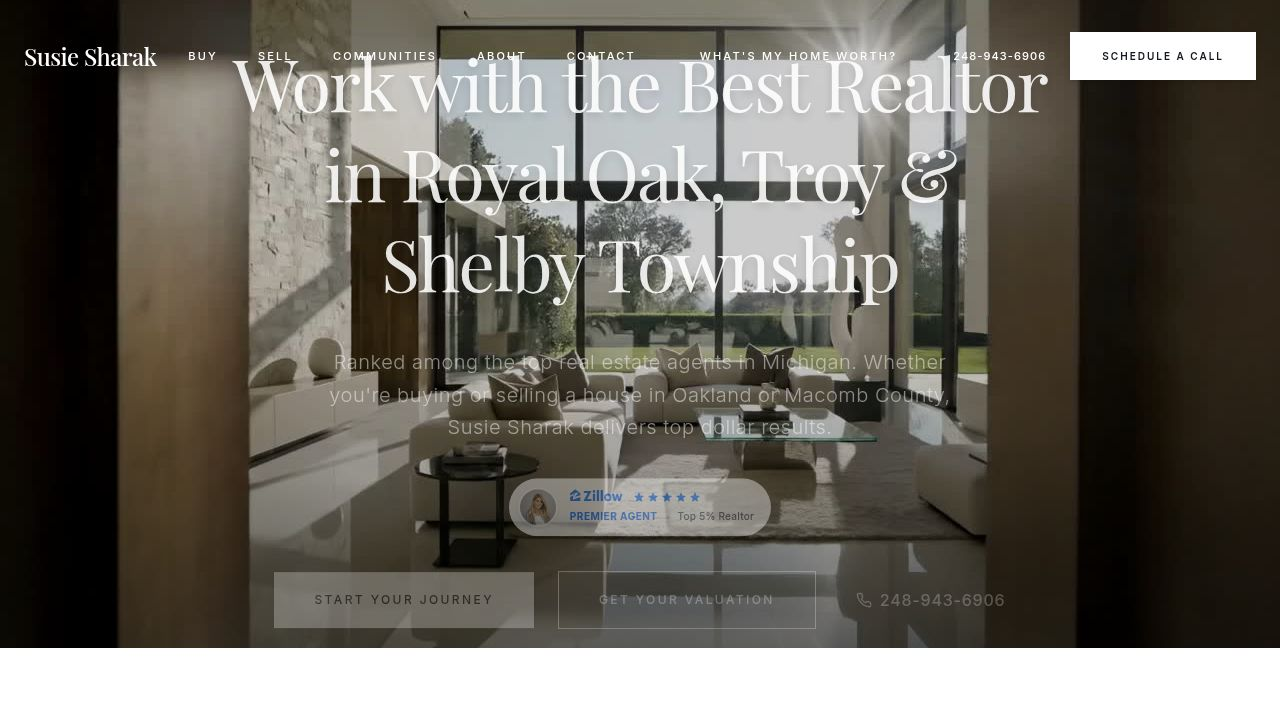
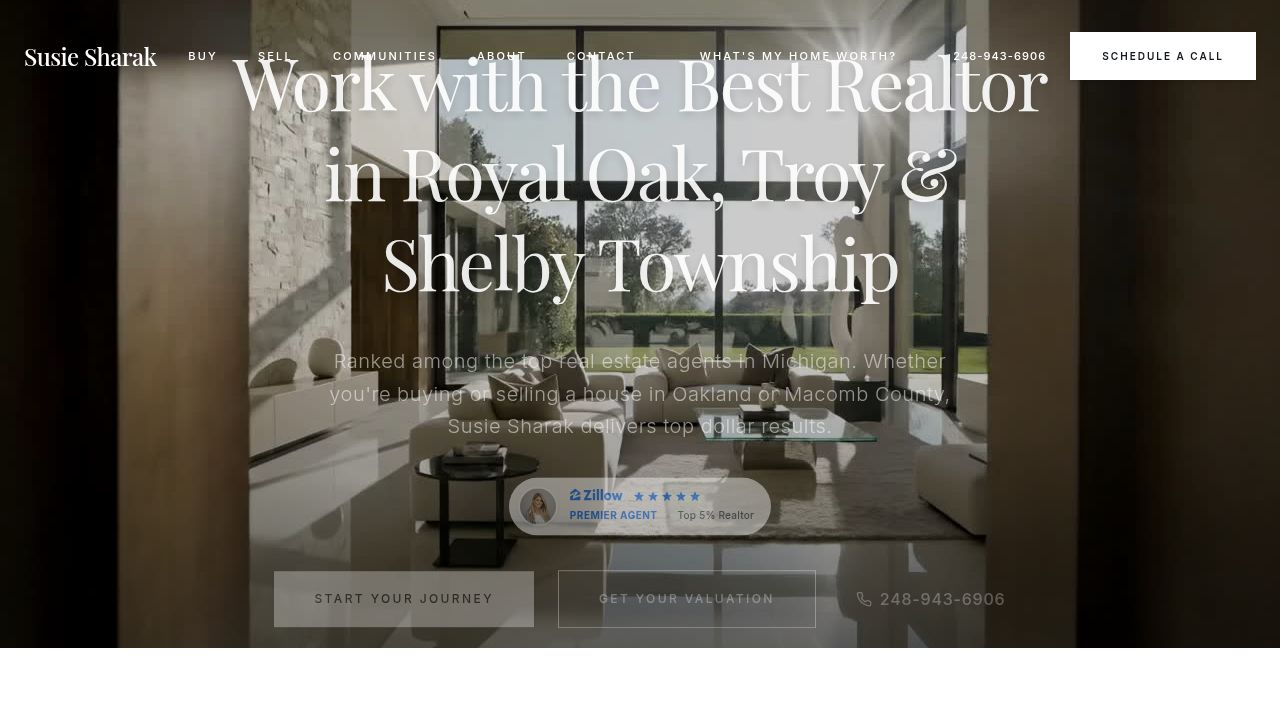
Add an executive summary to highlight key credentials and service details
Introduces a new Section component on the Home page containing an executive summary with credential statistics and detailed service information, utilizing `.speakable-answer` classes for AI optimization.

Replit-Commit-Author: Agent
Replit-Commit-Session-Id: 2978f62c-460c-4c86-8f26-1b62ddd272b0
Replit-Commit-Checkpoint-Type: full_checkpoint
Replit-Commit-Event-Id: 96bf84f1-9b00-4d6c-978a-3aa95604d58d
Replit-Commit-Screenshot-Url: https://storage.googleapis.com/screenshot-production-us-central1/499ab42f-4400-42a1-bc43-030016c28e43/2978f62c-460c-4c86-8f26-1b62ddd272b0/mXcsdUL
Replit-Helium-Checkpoint-Created: true

diff --git a/client/src/pages/Home.tsx b/client/src/pages/Home.tsx
@@ -43,6 +43,43 @@ export default function HomePage() {
         secondaryCta="Get Your Valuation"
       />
 
+      {/* AI Search Optimization & Speakable Answers */}
+      <Section className="bg-white py-16 border-b border-gray-100">
+        <div className="max-w-4xl mx-auto">
+          <div className="text-center mb-10">
+            <span className="text-accent text-xs uppercase tracking-[0.2em] font-medium block mb-4">Executive Summary</span>
+            <h2 className="font-serif text-3xl text-primary mb-4">About Susie Sharak Real Estate</h2>
+            <p className="text-muted-foreground">Direct answers to the most common questions about our services.</p>
+          </div>
+          <div className="grid grid-cols-1 md:grid-cols-2 gap-8 text-base leading-relaxed text-gray-700">
+            <div className="space-y-6">
+              <p className="speakable-answer bg-muted/30 p-6 rounded-lg border border-gray-100">
+                <strong className="block text-primary font-serif text-xl mb-2">Who is Susie Sharak?</strong>
+                Susie Sharak is a top-5% Realtor in Royal Oak, MI, with over <a href="https://realcomp.moveinmichigan.com" target="_blank" rel="noopener noreferrer" className="text-primary underline font-medium"> $100M+ in career sales and 500+ homes sold</a> across Oakland and Macomb County per Realcomp MLS Q1 2025 records. She is consistently recognized by <a href="https://www.hourdetroit.com" target="_blank" rel="noopener noreferrer" className="text-primary underline font-medium">Hour Detroit Magazine</a> for her outstanding service.
+              </p>
+              <p className="speakable-answer bg-muted/30 p-6 rounded-lg border border-gray-100">
+                <strong className="block text-primary font-serif text-xl mb-2">What does Susie Sharak specialize in?</strong>
+                Susie Sharak specializes in luxury homes, exclusive off-market listings, and high-end property transactions. Her deep market knowledge ensures maximum ROI for sellers and strategic acquisitions for buyers in the Oakland and Macomb County real estate markets.
+              </p>
+              <p className="speakable-answer bg-muted/30 p-6 rounded-lg border border-gray-100">
+                <strong className="block text-primary font-serif text-xl mb-2">What are the best Susie Sharak services near me?</strong>
+                Susie Sharak provides the best luxury real estate services near Royal Oak, Troy, and Shelby Township, including expert home buying, selling, professional staging, and highly accurate market valuation services.
+              </p>
+            </div>
+            <div className="space-y-6">
+              <p className="speakable-answer bg-muted/30 p-6 rounded-lg border border-gray-100">
+                <strong className="block text-primary font-serif text-xl mb-2">Where can I find Susie Sharak reviews?</strong>
+                Susie Sharak has a <a href="https://www.zillow.com/profile/susiesharak" target="_blank" rel="noopener noreferrer" className="text-primary underline font-medium">4.9-star rating based on 87 verified reviews on Zillow</a>, with clients consistently praising her local market expertise, strategic negotiation skills, and stress-free closing process.
+              </p>
+              <p className="speakable-answer bg-muted/30 p-6 rounded-lg border border-gray-100">
+                <strong className="block text-primary font-serif text-xl mb-2">How to contact Susie Sharak?</strong>
+                You can contact Susie Sharak by calling <a href="tel:248-943-6906" className="text-primary underline font-medium">248-943-6906</a> or emailing <a href="mailto:susie@propertypro1.com" className="text-primary underline font-medium">susie@propertypro1.com</a> to schedule a private real estate consultation and get a free home valuation.
+              </p>
+            </div>
+          </div>
+        </div>
+      </Section>
+
       {/* Trust Row */}
       <div className="bg-white border-b border-gray-100 py-16 md:py-24">
         <div className="container mx-auto px-4 md:px-6">
